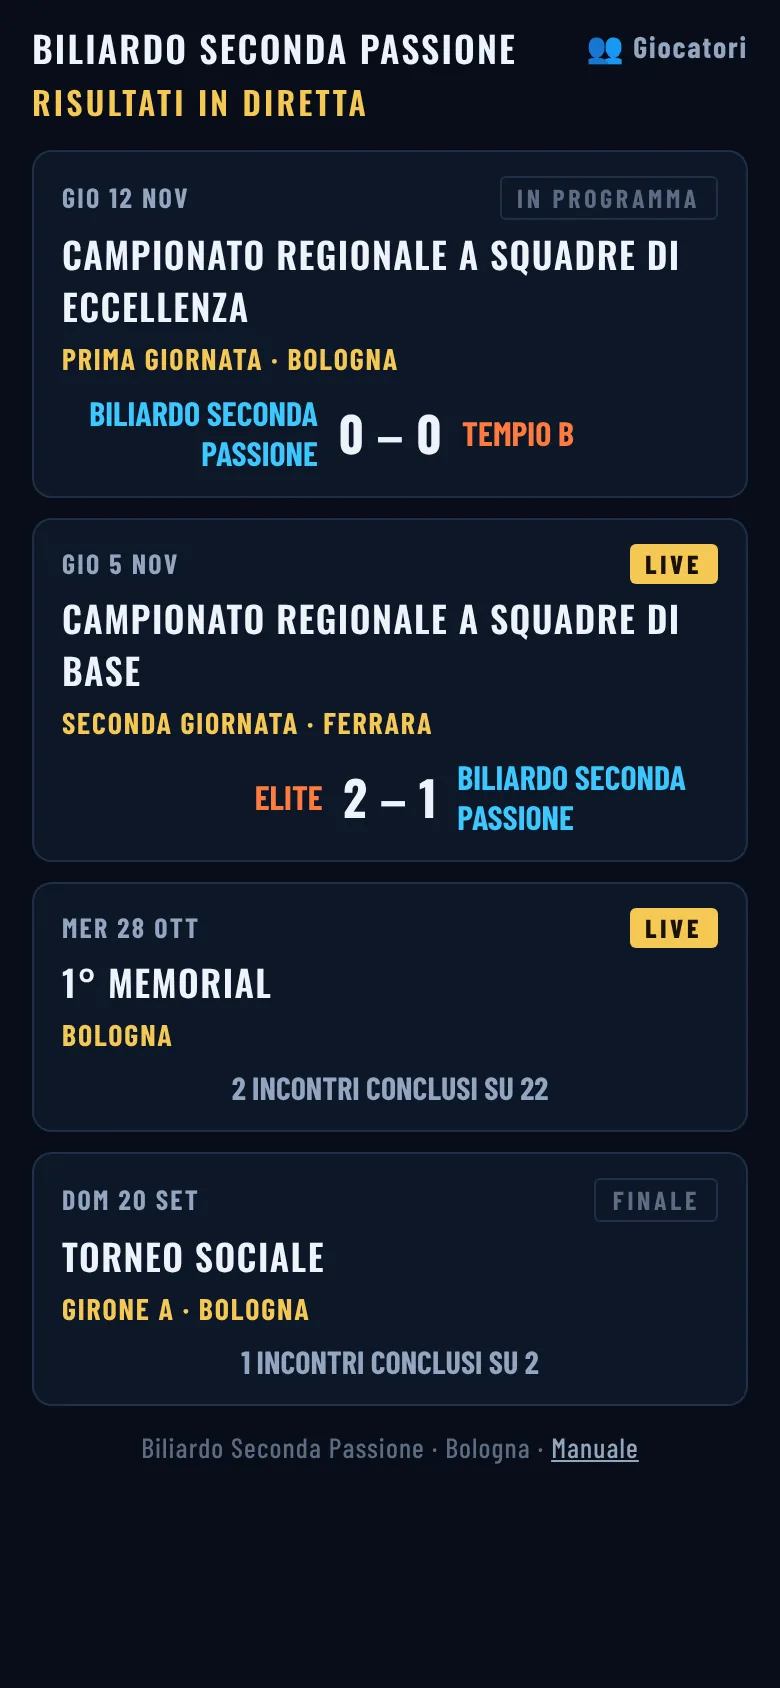
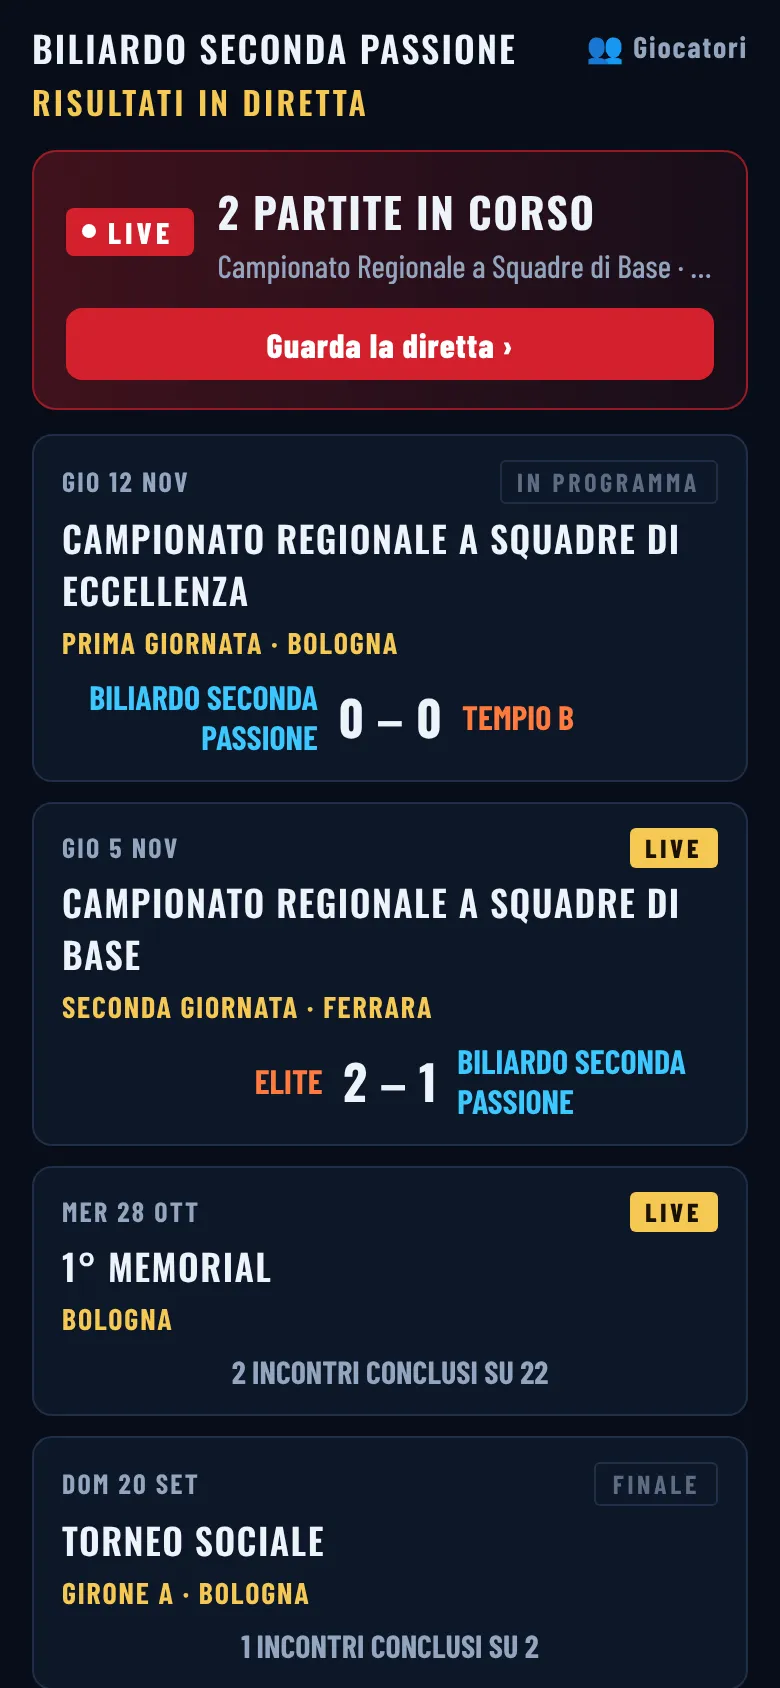
Home: riquadro Partite in corso verso ?live; scheda giocatore: + Nuova squadra creata al salvataggio
Claude-Session: https://claude.ai/code/session_01EqSLKnxJMSCgy9CtMYkmaD

Changed region(s): [[0.0308, 0.0616, 0.9538, 0.9858], [0.9538, 0.0924, 0.9846, 0.2464]]

diff --git a/js/anagrafica.js b/js/anagrafica.js
@@ -173,14 +173,18 @@ async function doImport(){
 }
 /* ---- scheda giocatore / squadra (finestra #anm) ---- */
 const yearOpts = sel => { const s = new Set([stagione() + 1, sel]); for(let y = stagione(); y>=2015; y--) s.add(y); return [...s].filter(Boolean).sort((a,b)=>b-a).map(y=>`<option value="${y}"${y===sel ? " selected" : ""}>${stagLabel(y)}</option>`).join(""); };
-const sqOpts = sel => sqSorted().map(([k,s])=>`<option value="${esc(k)}"${k===sel ? " selected" : ""}>${esc(s.nome)}</option>`).join("") + (sel && !(SQUADRE||{})[sel] ? `<option value="${esc(sel)}" selected>${esc(sel)}</option>` : "");
+/* NEWSQ = voce "+ Nuova squadra…": la squadra si crea insieme al giocatore, al Salva */
+const NEWSQ = "__nuova__";
+const sqOpts = sel => sqSorted().map(([k,s])=>`<option value="${esc(k)}"${k===sel ? " selected" : ""}>${esc(s.nome)}</option>`).join("") + (sel && sel!==NEWSQ && !(SQUADRE||{})[sel] ? `<option value="${esc(sel)}" selected>${esc(sel)}</option>` : "")
+  + `<option value="${NEWSQ}"${sel===NEWSQ ? " selected" : ""}>+ Nuova squadra…</option>`;
 const yrow = (y, r) => `<div class="row yr"><label>Anno sportivo<select data-yy>${yearOpts(y)}</select></label><label class="ys">Squadra<select data-ys>${sqOpts(r.sq)}</select></label>
-  <label>Categoria<select data-yc><option value="">—</option>${CATS.map(c=>`<option value="${c}"${c===r.cat ? " selected" : ""}>${catShort(c)}</option>`).join("")}</select></label><button class="yx" data-yx title="Togli questo anno" aria-label="Togli questo anno">✕</button></div>`;
+  <label>Categoria<select data-yc><option value="">—</option>${CATS.map(c=>`<option value="${c}"${c===r.cat ? " selected" : ""}>${catShort(c)}</option>`).join("")}</select></label><button class="yx" data-yx title="Togli questo anno" aria-label="Togli questo anno">✕</button>
+  <div class="nsq"${r.sq===NEWSQ ? "" : " hidden"}><label>Nome della nuova squadra<input data-nsn value="${esc(r.nsn||"")}" autocomplete="off"></label><label>Città<input data-nsc value="${esc(r.nsc||"")}" placeholder="es. Ferrara (FE)" autocomplete="off"></label></div></div>`;
 const anMsg = t => { const m = $("#an-m"); if(m) m.textContent = t; };
 const delLabel = () => anEd.del && Date.now() - anEd.del < 4000 ? "Conferma: elimina" : "Elimina";
 function openPlayer(k, pre){
-  if(!SQUADRE || !Object.keys(SQUADRE).length){ anErr = "Prima crea almeno una squadra (scheda Squadre) o importa una tabella."; render(); return; }
-  const y = pre ? pre.y : (anStag ?? stagione()), sq0 = pre && pre.sq && SQUADRE[pre.sq] ? pre.sq : anSq || (SQUADRE[CLUBSQ] ? CLUBSQ : sqSorted()[0][0]);
+  const SQ = SQUADRE || {}, y = pre ? pre.y : (anStag ?? stagione());
+  const sq0 = pre && pre.sq && SQ[pre.sq] ? pre.sq : anSq && SQ[anSq] ? anSq : SQ[CLUBSQ] ? CLUBSQ : sqSorted().length ? sqSorted()[0][0] : NEWSQ;
   const p = k ? clone(ANAG[k]) : {cognome:pre ? pre.cognome : "", nome:pre ? pre.nome : "", anni:{[y]: {sq:sq0, cat:""}}};
   anEd = {kind:"p", k, p, del:0, link:pre && pre.link, ck:pre && pre.ck}; paintPlayer(); $("#anm").hidden = false;
   if(!k) setTimeout(()=>{ const x = pre && pre.cognome ? $("#an-n") : $("#an-c"); if(x) x.focus(); }, 30);
@@ -206,7 +210,8 @@ function readPlayer(){
   p.cognome = v("#an-c"); p.nome = v("#an-n"); p.sopr = v("#an-s"); p.tab = v("#an-t");
   const anni = {}, dup = [];
   $("#anm").querySelectorAll(".yr").forEach(r=>{ const y = +r.querySelector("[data-yy]").value; if(anni[y]) dup.push(stagLabel(y));
-    anni[y] = {sq:r.querySelector("[data-ys]").value, cat:r.querySelector("[data-yc]").value}; });
+    anni[y] = {sq:r.querySelector("[data-ys]").value, cat:r.querySelector("[data-yc]").value};
+    if(anni[y].sq===NEWSQ){ anni[y].nsn = r.querySelector("[data-nsn]").value.trim(); anni[y].nsc = r.querySelector("[data-nsc]").value.trim(); } });
   p.anni = anni; return dup;
 }
 async function savePlayer(){
@@ -214,6 +219,15 @@ async function savePlayer(){
   if(!p.cognome) return anMsg("Scrivi almeno il cognome");
   if(dup.length) return anMsg("Anno sportivo ripetuto: " + dup.join(", "));
   if(!anniOf(p).length) return anMsg("Aggiungi almeno un anno sportivo con la squadra");
+  /* squadre nuove scritte nella scheda: se il nome esiste già si usa quella, altrimenti si crea (una sola volta anche se ripetuta in più anni) */
+  const NS = {}, SQ = SQUADRE || {};
+  for(const y of anniOf(p)){ const r = p.anni[y]; if(r.sq!==NEWSQ) continue;
+    if(!r.nsn){ anMsg(`Scrivi il nome della nuova squadra (${stagLabel(y)})`); const i = $("#anm [data-nsn]"); if(i) i.focus(); return; }
+    const ex = findSq(r.nsn), key = ex || Object.keys(NS).find(kk=>NS[kk].nome.toLowerCase()===r.nsn.toLowerCase());
+    if(key){ r.sq = key; continue; }
+    const b = slug(r.nsn) || "squadra"; let kk = b, n = 2; while(SQ[kk] || NS[kk]) kk = b + "-" + n++;
+    NS[kk] = {nome:r.nsn, citta:r.nsc || ""}; r.sq = kk; }
+  for(const y of anniOf(p)){ delete p.anni[y].nsn; delete p.anni[y].nsc; }
   let k = anEd.k;
   if(!k){ const b = slug(p.cognome) + "-" + (p.nome ? slug(p.nome) : rowAt(p, stagione()).sq); k = b; let n = 2; while(ANAG[k]) k = b + "-" + n++; }
   const tn = tabName(p).toLowerCase(), ys = anniOf(p);
@@ -221,6 +235,7 @@ async function savePlayer(){
   if(twin && anEd.twin!==tn){ anEd.twin = tn; return anMsg(`Anche ${[twin[1].nome, twin[1].cognome].filter(Boolean).join(" ")} compare come “${tabName(p)}”: scrivi un nome sul tabellone diverso, oppure premi di nuovo Salva per lasciarlo così.`); }
   const val = {cognome:p.cognome, nome:p.nome, anni:p.anni}; if(p.sopr) val.sopr = p.sopr; if(p.tab) val.tab = p.tab;
   const fo = anEd.foto, W = {["giocatori/" + k]: val};
+  for(const kk in NS) W["squadre/" + kk] = NS[kk];
   if(fo){ val.foto = Date.now(); W["foto/" + k] = fo; FOTO[fotoKey(k, val)] = fo; }
   else if(fo===""){ if(anEd.k) W["foto/" + k] = null; }
   else if(p.foto) val.foto = p.foto;
@@ -274,6 +289,11 @@ $("#anm").addEventListener("click", e=>{
   if(t.closest("[data-afx]")){ readPlayer(); anEd.foto = ""; paintPlayer(); return; }
   if(t.closest("[data-alg]")){ readSquad(); $("#anlogo").click(); return; }
   if(t.closest("[data-alx]")){ readSquad(); delete anEd.s.logo; paintSquad(); return; }
+});
+$("#anm").addEventListener("change", e=>{
+  const s = e.target.closest("[data-ys]"); if(!s || !anEd) return;
+  const box = s.closest(".yr").querySelector(".nsq"), on = s.value===NEWSQ; box.hidden = !on;
+  if(on){ const i = box.querySelector("[data-nsn]"); if(i) i.focus(); }
 });
 $("#anm").addEventListener("keydown", e=>{ if(e.key==="Escape") closeAn(); if(e.key==="Enter" && e.target.tagName==="INPUT"){ e.preventDefault(); anEd && (anEd.kind==="p" ? savePlayer() : saveSquad()); } });
 $("#anlogo").addEventListener("change", ()=>{

diff --git a/manuale.html b/manuale.html
@@ -144,6 +144,7 @@ footer{grid-column:1/-1;color:var(--dim);font-size:14px;text-align:center;paddin
 <h2><span class="n">2</span>Per chi segue le gare</h2>
 <h3>Elenco delle gare</h3>
 <p>Ogni gara mostra data, stato (<b>LIVE</b>, <b>In programma</b>, <b>Finale</b>), competizione, giornata e luogo, e il punteggio delle squadre o il vincitore del torneo. Toccando una gara si apre la sua pagina. In alto a destra, <b>👥 Giocatori</b> porta all'elenco dei giocatori.</p>
+<p>Quando c'è almeno una partita in diretta, in cima all'elenco compare il riquadro rosso <b>LIVE · Partite in corso</b> con il pulsante <span class="btn">Guarda la diretta ›</span>: porta al link fisso <code>?live</code>, cioè alla gara in diretta (o all'elenco delle dirette, se sono più d'una). Vale anche per le gare “solo con il link”, mai per quelle di prova.</p>
 <div class="shs"><figure class="sh tel"><img src="img/manuale/elenco.webp" alt="Elenco delle gare (telefono)" loading="lazy" width="390" height="844"><figcaption>Elenco delle gare (telefono)</figcaption></figure><figure class="sh tel"><img src="img/manuale/gara-telefono.webp" alt="Una gara a squadre in diretta, in trasferta: gli avversari sono a sinistra" loading="lazy" width="390" height="844"><figcaption>Una gara a squadre in diretta, in trasferta: gli avversari sono a sinistra</figcaption></figure></div>
 <h3>Pagina di una gara a squadre</h3>
 <ul>
@@ -335,6 +336,7 @@ assente
   <li><b>Nome sul tabellone:</b> da scrivere solo per distinguere due omonimi con la stessa iniziale. La scheda avvisa quando due giocatori risulterebbero uguali.</li>
   <li><b>Foto</b> (facoltativa): <span class="btn">Carica foto</span> sceglie un'immagine dal telefono o dal computer; viene rimpicciolita da sola a 400 pixel prima di salvarla, quindi va bene anche l'originale grande. Compare nella pagina pubblica del giocatore. <span class="btn">Cambia foto</span> la sostituisce, <span class="btn">Togli foto</span> la elimina; la modifica vale dopo <span class="btn g">Salva</span>. Nell'elenco i giocatori con la foto hanno il simbolo 📷.</li>
   <li><b>Squadra e categoria per anno sportivo:</b> <span class="btn">+ Aggiungi anno</span> copia l'ultima riga, così basta cambiare ciò che è diverso.</li>
+  <li><b>Squadra che non c'è ancora:</b> nella tendina Squadra scegli <b>+ Nuova squadra…</b> e scrivi nome e città: la squadra viene creata insieme al giocatore, quando premi <span class="btn g">Salva</span> (se esiste già una squadra con quel nome, si usa quella). Il logo si aggiunge poi dalla scheda Squadre.</li>
 </ul>
 <div class="shs"><figure class="sh tel"><img src="img/manuale/anagrafica.webp" alt="Elenco dei giocatori per anno sportivo e squadra" loading="lazy" width="390" height="844"><figcaption>Elenco dei giocatori per anno sportivo e squadra</figcaption></figure><figure class="sh tel"><img src="img/manuale/anagrafica-scheda.webp" alt="Scheda di un giocatore: foto, squadra e categoria per anno sportivo" loading="lazy" width="390" height="844"><figcaption>Scheda di un giocatore: foto, squadra e categoria per anno sportivo</figcaption></figure></div>
 <p>Ogni giocatore ha un <b>codice</b> interno, creato alla prima registrazione e mai più modificato. Le gare sono collegate al codice: se cambi nome, grafia o soprannome, tutte le gare e le statistiche mostrano il nome aggiornato.</p>
@@ -529,6 +531,8 @@ assente
 <h2><span class="n">15</span>Novità</h2>
 <h3>6 novembre 2026</h3>
 <ul>
+  <li>Home: riquadro “Partite in corso” con il pulsante Guarda la diretta quando ci sono gare in diretta.</li>
+  <li>Scheda del giocatore: “+ Nuova squadra…” per creare la squadra insieme al giocatore.</li>
   <li>Mini-overlay per le dirette con telecamera (<code>?overlay&amp;mini&amp;live</code>): solo la fascia in basso, con gli incontri in corso a rotazione.</li>
   <li>Nella fascia dell'incontro le coppie hanno un nome per riga.</li>
 </ul>

diff --git a/index.html b/index.html
@@ -17,12 +17,12 @@
 <meta name="apple-mobile-web-app-title" content="Live 2P">
 <link rel="preconnect" href="https://fonts.gstatic.com" crossorigin>
 <link rel="stylesheet" href="https://fonts.googleapis.com/css2?family=Barlow+Condensed:wght@500;600;700;800&family=Oswald:wght@600;700&display=swap">
-<link rel="stylesheet" href="css/base.css?v=2026110601">
-<link rel="stylesheet" href="css/elenco-regia.css?v=2026110601">
-<link rel="stylesheet" href="css/torneo.css?v=2026110601">
-<link rel="stylesheet" href="css/set-andamento.css?v=2026110601">
-<link rel="stylesheet" href="css/anagrafica.css?v=2026110601">
-<link rel="stylesheet" href="css/overlay.css?v=2026110601">
+<link rel="stylesheet" href="css/base.css?v=2026110602">
+<link rel="stylesheet" href="css/elenco-regia.css?v=2026110602">
+<link rel="stylesheet" href="css/torneo.css?v=2026110602">
+<link rel="stylesheet" href="css/set-andamento.css?v=2026110602">
+<link rel="stylesheet" href="css/anagrafica.css?v=2026110602">
+<link rel="stylesheet" href="css/overlay.css?v=2026110602">
 </head>
 <body>
 <div id="app"></div>
@@ -69,22 +69,22 @@
 <div id="sug" hidden role="listbox" aria-label="Giocatori"></div>
 <script src="https://www.gstatic.com/firebasejs/10.12.2/firebase-app-compat.js"></script>
 <script src="https://www.gstatic.com/firebasejs/10.12.2/firebase-database-compat.js"></script>
-<script src="js/config.js?v=2026110601"></script>
-<script src="js/formule.js?v=2026110601"></script>
-<script src="js/util.js?v=2026110601"></script>
-<script src="js/gara.js?v=2026110601"></script>
-<script src="js/dati.js?v=2026110601"></script>
-<script src="js/vista-gara.js?v=2026110601"></script>
-<script src="js/vista-elenco.js?v=2026110601"></script>
-<script src="js/render.js?v=2026110601"></script>
-<script src="js/interazioni.js?v=2026110601"></script>
-<script src="js/anagrafica.js?v=2026110601"></script>
-<script src="js/nomi.js?v=2026110601"></script>
-<script src="js/controllo-nomi.js?v=2026110601"></script>
-<script src="js/giocatori.js?v=2026110601"></script>
-<script src="js/overlay.js?v=2026110601"></script>
-<script src="js/regia-barra.js?v=2026110601"></script>
-<script src="js/avvio.js?v=2026110601"></script>
+<script src="js/config.js?v=2026110602"></script>
+<script src="js/formule.js?v=2026110602"></script>
+<script src="js/util.js?v=2026110602"></script>
+<script src="js/gara.js?v=2026110602"></script>
+<script src="js/dati.js?v=2026110602"></script>
+<script src="js/vista-gara.js?v=2026110602"></script>
+<script src="js/vista-elenco.js?v=2026110602"></script>
+<script src="js/render.js?v=2026110602"></script>
+<script src="js/interazioni.js?v=2026110602"></script>
+<script src="js/anagrafica.js?v=2026110602"></script>
+<script src="js/nomi.js?v=2026110602"></script>
+<script src="js/controllo-nomi.js?v=2026110602"></script>
+<script src="js/giocatori.js?v=2026110602"></script>
+<script src="js/overlay.js?v=2026110602"></script>
+<script src="js/regia-barra.js?v=2026110602"></script>
+<script src="js/avvio.js?v=2026110602"></script>
 
 </body>
 </html>

diff --git a/css/elenco-regia.css b/css/elenco-regia.css
@@ -77,3 +77,14 @@ body.ed [data-logo]{cursor:pointer}
 #rbar .url{user-select:all;color:#fff;word-break:break-all}
 #rbar .tip button{padding:2px 8px;font-size:12px;margin-left:4px}
 #rbar .more{display:none}
+/* home pubblica: pulsante "Partite in corso" */
+.golive{box-sizing:border-box;display:flex;align-items:center;gap:12px;padding:14px 16px;border-radius:12px;text-decoration:none;color:var(--ink);background:linear-gradient(90deg,rgba(212,32,44,.28),rgba(212,32,44,.08));border:1px solid rgba(212,32,44,.65);box-shadow:0 0 0 0 rgba(212,32,44,.5);animation:glp 2.4s ease-out infinite}
+.golive .live{margin-top:0}
+.golive .gl-t{flex:1;min-width:0;display:flex;flex-direction:column;gap:2px}
+.golive .gl-t b{font-family:var(--fh);font-size:21px;letter-spacing:.04em;text-transform:uppercase}
+.golive .gl-t span{color:var(--mute);font-size:16px;white-space:nowrap;overflow:hidden;text-overflow:ellipsis}
+.golive .gl-go{flex:none;box-sizing:border-box;font-weight:800;font-size:17px;color:#fff;background:var(--live);padding:8px 14px;border-radius:8px;letter-spacing:.03em}
+.golive:hover,.golive:focus-visible{border-color:#ff5562;outline:none}
+@keyframes glp{0%{box-shadow:0 0 0 0 rgba(212,32,44,.45)}70%{box-shadow:0 0 0 10px rgba(212,32,44,0)}100%{box-shadow:0 0 0 0 rgba(212,32,44,0)}}
+@media (max-width:480px){.golive{flex-wrap:wrap}.golive .gl-go{flex-basis:100%;text-align:center}}
+@media (prefers-reduced-motion:reduce){.golive{animation:none}}

diff --git a/js/vista-elenco.js b/js/vista-elenco.js
@@ -2,6 +2,13 @@
    I file js/ si caricano in ordine da index.html e condividono le stesse variabili (script classici, non moduli:
    così la regia funziona anche aperta dal disco). L'ordine conta. */
 /* ================= vista elenco gare ================= */
+/* pulsante "Partite in corso" nella home pubblica: gare in diretta, anche quelle solo con il link (mai le prove); porta al link fisso ?live */
+function liveBtnHTML(idx){
+  const L = Object.values(idx||{}).filter(g=>g && g.stato==="live" && visOf(g)!=="prova");
+  if(!L.length) return "";
+  const t = L.length===1 ? [L[0].titolo, L[0].sottotitolo].filter(Boolean).join(" · ") : L.map(g=>g.titolo).filter(Boolean).join(" · ");
+  return `<a class="golive" href="?live"><span class="live"><i></i>LIVE</span><span class="gl-t"><b>${L.length===1 ? "Partita in corso" : L.length + " partite in corso"}</b><span>${esc(t)}</span></span><span class="gl-go">Guarda la diretta ›</span></a>`;
+}
 function listHTML(idx, forRegia){
   const items = Object.entries(idx||{}).map(([id,m])=>Object.assign({id}, m)).filter(g=>forRegia || visOf(g)==="pub")   /* gare "solo con il link" e di prova: solo in regia */
     .sort((a,b)=> (b.data||"").localeCompare(a.data||"") || (b.aggiornato||0)-(a.aggiornato||0));

diff --git a/js/render.js b/js/render.js
@@ -139,7 +139,7 @@ function render(){
         e.textContent = a[k]; setTimeout(()=>{ if(e.isConnected){ e.textContent = b[k]; e.classList.add("bump"); } }, 2600); }); }
     prev = clone(S);
   }
-  else if(mode==="list") app.innerHTML = `<main class="wrap"><div class="top"><div><div class="comp">Biliardo Seconda Passione</div><div class="sub">Risultati in diretta</div></div><a class="lk" href="?giocatori">👥 Giocatori</a></div>${listHTML(INDEX,false)}<div class="foot">Biliardo Seconda Passione · Bologna · <a href="manuale.html">Manuale</a></div></main>`;
+  else if(mode==="list") app.innerHTML = `<main class="wrap"><div class="top"><div><div class="comp">Biliardo Seconda Passione</div><div class="sub">Risultati in diretta</div></div><a class="lk" href="?giocatori">👥 Giocatori</a></div>${liveBtnHTML(INDEX)}${listHTML(INDEX,false)}<div class="foot">Biliardo Seconda Passione · Bologna · <a href="manuale.html">Manuale</a></div></main>`;
   else if(mode==="overlay"){ ovRender(); return; }
   else if(mode==="gioc") app.innerHTML = giocHTML();
   else if(mode==="giocs") app.innerHTML = giocsHTML();

diff --git a/css/anagrafica.css b/css/anagrafica.css
@@ -123,3 +123,7 @@ a.anr{text-decoration:none}
 .pfoto{margin:0;align-self:center;width:min(380px,100%)}
 .pfoto img,.pfoto span{display:block;width:100%;aspect-ratio:1;object-fit:contain;border-radius:12px;border:1px solid var(--line);background:#000}
 .pfoto img{aspect-ratio:auto;height:auto}
+/* nuova squadra creata dalla scheda del giocatore */
+#anm .yr .nsq{flex-basis:100%;display:flex;flex-wrap:wrap;gap:8px 10px;padding:8px 10px;border-radius:8px;background:rgba(246,200,83,.07);border:1px dashed rgba(246,200,83,.35)}
+#anm .yr .nsq[hidden]{display:none}
+#anm .yr .nsq>label{flex:1 1 160px}
